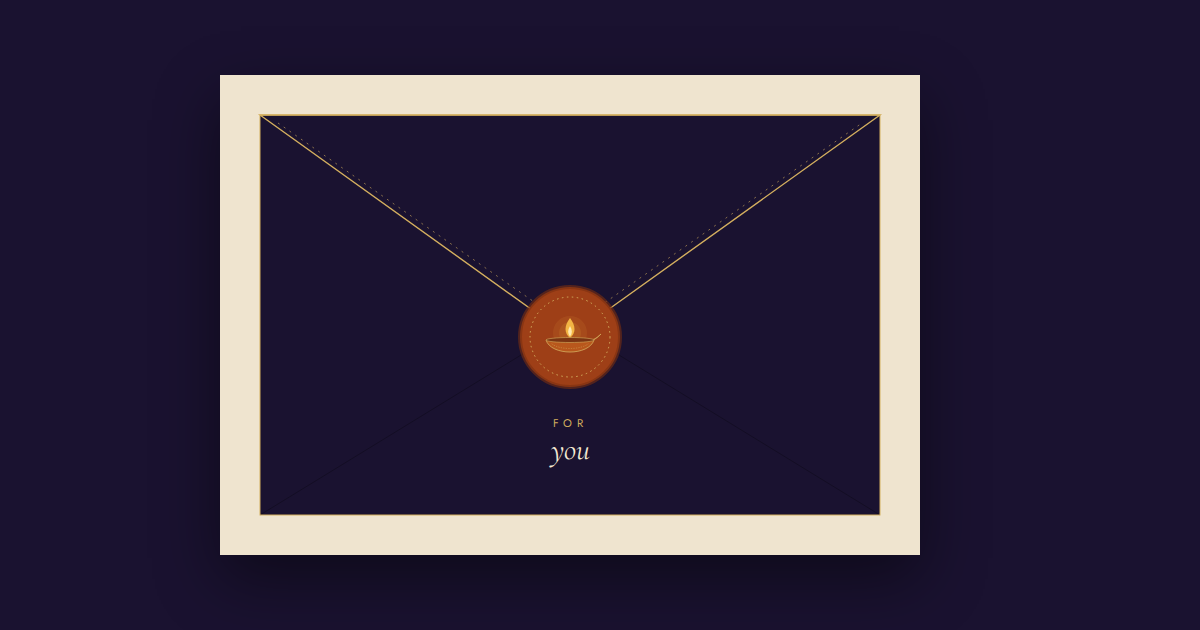
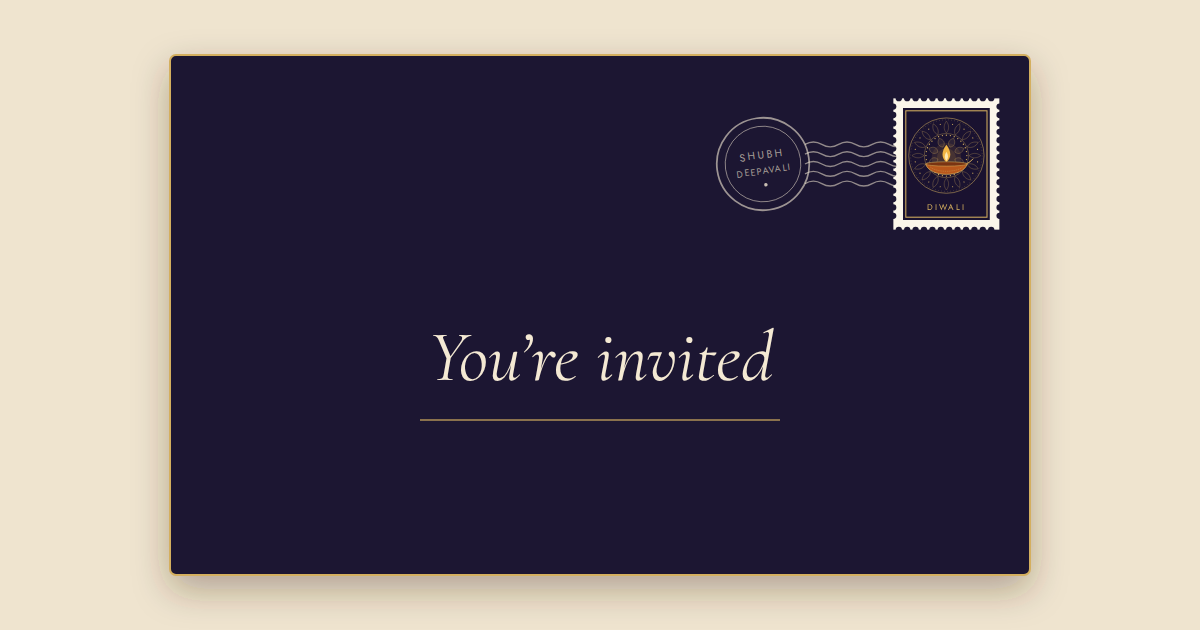
Email and link preview show the addressed front of the envelope
- Email: context (title, message) on light paper, then the front of the
  envelope with a stamp, postmark and the guest's name written on it,
  then the button, then a dark details band with Add to calendar and
  View map. Built as HTML so each guest's real name is on the envelope.
- Link preview (WhatsApp/iMessage): front of the envelope with stamp,
  postmark and "You're invited".
- Stamps rendered per design and color pair; old envelope-back images
  removed.

Claude-Session: https://claude.ai/code/session_01EBorhT272iFKEJQZLz5Mn7

diff --git a/backend/core.js b/backend/core.js
@@ -33,22 +33,22 @@ var InviteCore = (function () {
         night: {
           grounds: [sw('Midnight', '#1A1230'), sw('Deep maroon', '#3A0F1E'), sw('Emerald', '#0E2A26'), sw('Indigo', '#14213D')],
           accents: [sw('Classic gold', '#D4AF5F'), sw('Pale gold', '#E6C77E'), sw('Antique gold', '#C9A24A')],
-          text: '#F4E9D3', muted: '#CDBFA3'
+          text: '#F4E9D3', muted: '#CDBFA3', envInk: '#F4E9D3'
         },
         arch: {
           grounds: [sw('Ivory', '#FFF6E3'), sw('Blush', '#FCEBE2'), sw('Pistachio', '#EFF2DF')],
           accents: [sw('Saffron', '#F0B04F'), sw('Marigold', '#EC9A3A'), sw('Rose', '#E8A48C')],
-          text: '#5A1A0E', muted: '#8A4A2A', label: '#B5651D', button: '#6B1F12', buttonText: '#FFF6E3'
+          text: '#5A1A0E', muted: '#8A4A2A', label: '#B5651D', button: '#6B1F12', buttonText: '#FFF6E3', env: '#6B1F12', envInk: '#FFF6E3'
         },
         carnival: {
           grounds: [sw('Plum to rust', '#3A0F1E', '#7A3416'), sw('Wine', '#2A0A1C', '#64202E'), sw('Night to plum', '#151033', '#4E1F46')],
           accents: [sw('Marigold gold', '#F2C879'), sw('Bright gold', '#F5B942'), sw('Pale gold', '#F6DFAE')],
-          text: '#FFF3E2', muted: '#F0D9BE'
+          text: '#FFF3E2', muted: '#F0D9BE', envInk: '#FFF3E2'
         },
         plum: {
           grounds: [sw('Plum', '#3A1532'), sw('Aubergine', '#2A0E26'), sw('Midnight', '#1A1230')],
           accents: [sw('Champagne', '#F1D39A'), sw('Classic gold', '#D4AF5F'), sw('Rose gold', '#E8B59A')],
-          text: '#F6E9DC', muted: '#D9C3B4'
+          text: '#F6E9DC', muted: '#D9C3B4', envInk: '#F6E9DC'
         }
       },
       surround: '#EFE4CF'
@@ -279,13 +279,28 @@ var InviteCore = (function () {
       return String(tpl || '').replace(/\{(\w+)\}/g, function (m, k) { return vars.hasOwnProperty(k) ? vars[k] : m; });
     }
 
-    function envelopeImage(d) {
+    function stampImage(d) {
       var pal = paletteOf(d.theme, d.template);
       var gi = Math.max(0, values(pal.p.grounds).indexOf(d.colors.ground));
       var ai = Math.max(0, values(pal.p.accents).indexOf(d.colors.accent));
-      return base() + '/themes/' + d.theme + '/email/envelope-' + pal.key + '-' + gi + '-' + ai + '.png';
+      return base() + '/themes/' + d.theme + '/email/stamp-' + pal.key + '-' + gi + '-' + ai + '.png';
     }
 
+    function calendarUrl(d) {
+      var stamp = function (date, time) { return date.replace(/-/g, '') + (time ? 'T' + time.replace(':', '') + '00' : ''); };
+      var end;
+      if (d.endTime) end = stamp(d.endTime <= d.startTime ? addDays(d.date, 1) : d.date, d.endTime);
+      else if (d.startTime) {
+        var h = parseInt(d.startTime, 10) + 3, day = d.date;
+        if (h >= 24) { h -= 24; day = addDays(d.date, 1); }
+        end = stamp(day, (h < 10 ? '0' : '') + h + d.startTime.slice(2));
+      } else end = stamp(addDays(d.date, 1));
+      return 'https://calendar.google.com/calendar/render?action=TEMPLATE&text=' + encodeURIComponent(d.text.title || '') +
+        '&dates=' + stamp(d.date, d.startTime) + '/' + end + '&location=' + encodeURIComponent([d.venue, d.address].filter(Boolean).join(', '));
+    }
+
+    // Email layout (like a paper invitation in the mail): context on light paper, then the
+    // addressed front of the envelope, the button, and the event details on a dark band.
     function buildEmail(kind, ev, d, g, overrides) {
       overrides = overrides || {};
       var th = themeOf(d), e = fmt.esc;
@@ -293,34 +308,44 @@ var InviteCore = (function () {
       var message = fill(overrides.message || d.email[kind + 'Message'] || EMAIL_DEFAULTS[kind + 'Message'], ev, d, g);
       var link = guestLink(ev, d, g);
       var P = paletteOf(d.theme, d.template).p;
-      var G = d.colors.ground, A = d.colors.accent, T = P.text;
-      var L = P.label || A, B = P.button || A, BT = P.buttonText || G;
+      var ENV = P.env || d.colors.ground, INK = P.envInk || P.text, A = d.colors.accent;
+      var PAPER = '#FBF6EA', DARK = '#2A2433', SOFT = '#6B5E52';
+      var D = th.display, S = th.body;
+      var hideAddress = d.settings.addressVisibility === 'accepted' && !(g && g.status === 'yes');
       var paras = message.split(/\n{2,}/).map(function (p) {
         return '<p style="margin:0 0 16px">' + e(p).replace(/\n/g, '<br>') + '</p>';
       }).join('');
+      var label = function (t) { return '<div style="font-family:' + S + ';font-size:12px;letter-spacing:4px;text-transform:uppercase;color:' + A + ';margin:0 0 6px">' + t + '</div>'; };
+      var linkStyle = 'color:' + INK + ';font-family:' + S + ';font-size:12px;letter-spacing:3px;text-transform:uppercase;text-decoration:underline;text-underline-offset:4px';
+      var when = [fmt.date(d.date), fmt.timeRange(d.startTime, d.endTime)].filter(Boolean);
       var details = '';
-      if (kind === 'daybefore') {
-        var rows = [fmt.date(d.date), fmt.timeRange(d.startTime, d.endTime), [d.venue, d.address].filter(Boolean).join(', ')]
-          .filter(Boolean).map(function (r) { return e(r); });
-        if (d.address) rows.push('<a href="' + e(fmt.mapUrl(d.address)) + '" style="color:' + L + '">Open in Maps</a>');
-        details = '<tr><td style="padding:0 40px 24px;font-family:' + th.body + ';font-size:15px;line-height:1.7;color:' + T +
-          ';text-align:center;border-top:1px solid ' + A + ';border-bottom:1px solid ' + A + '"><div style="padding:16px 0">' +
-          rows.join('<br>') + '</div></td></tr>';
+      if (when.length) {
+        details += label('When') + '<div style="font-family:' + S + ';font-size:16px;line-height:1.6;color:' + INK + '">' + when.map(e).join('<br>') + '</div>' +
+          '<div style="margin:8px 0 22px"><a href="' + e(calendarUrl(d)) + '" style="' + linkStyle + '">Add to calendar</a></div>';
+      }
+      var place = [d.venue, hideAddress ? '' : d.address].filter(Boolean);
+      if (place.length) {
+        details += label('Where') + '<div style="font-family:' + S + ';font-size:16px;line-height:1.6;color:' + INK + '">' + place.map(e).join('<br>') + '</div>' +
+          (d.address && !hideAddress ? '<div style="margin:8px 0 4px"><a href="' + e(fmt.mapUrl(d.address)) + '" style="' + linkStyle + '">View map</a></div>' :
+            hideAddress && d.address ? '<div style="font-family:' + S + ';font-size:13px;color:' + INK + ';opacity:.8;margin-top:6px">The address is shared once you accept.</div>' : '');
       }
       var html =
         '<div style="background:' + th.surround + ';padding:24px 12px">' +
-        '<table role="presentation" cellpadding="0" cellspacing="0" width="100%" style="max-width:560px;margin:0 auto;background:' + G +
-        ';border:1px solid ' + A + '">' +
-        '<tr><td style="padding:0"><a href="' + e(link) + '"><img src="' + e(envelopeImage(d)) + '" width="560" alt="A sealed invitation" ' +
-        'style="display:block;width:100%;max-width:560px;height:auto;border:0"></a></td></tr>' +
-        '<tr><td style="padding:8px 24px 0;text-align:center;font-family:' + th.body + ';font-size:12px;letter-spacing:4px;text-transform:uppercase;color:' + L + '">For</td></tr>' +
-        '<tr><td style="padding:4px 24px 24px;text-align:center;font-family:' + th.display + ';font-style:italic;font-size:30px;color:' + T + '">' + e(g.name) + '</td></tr>' +
-        '<tr><td style="padding:0 40px 8px;font-family:' + th.display + ';font-size:18px;line-height:1.6;color:' + T + '">' + paras + '</td></tr>' +
-        details +
-        '<tr><td align="center" style="padding:8px 24px 40px"><a href="' + e(link) + '" style="display:inline-block;background:' + B + ';color:' + BT +
-        ';padding:15px 28px;border-radius:6px;text-decoration:none;font-family:' + th.body + ';font-size:13px;font-weight:bold;letter-spacing:3px;text-transform:uppercase">Open your invitation</a></td></tr>' +
+        '<table role="presentation" cellpadding="0" cellspacing="0" width="100%" style="max-width:560px;margin:0 auto;background:' + PAPER + ';border-collapse:collapse">' +
+        '<tr><td style="padding:36px 32px 6px;text-align:center;font-family:' + D + ';font-size:32px;line-height:1.2;color:' + DARK + '">' + e(d.text.title || '') + '</td></tr>' +
+        '<tr><td align="center" style="padding:6px 0 18px"><div style="width:64px;height:1px;background:' + A + ';line-height:1px;font-size:1px">&nbsp;</div></td></tr>' +
+        '<tr><td style="padding:0 40px 8px;font-family:' + D + ';font-size:18px;line-height:1.6;color:' + DARK + '">' + paras + '</td></tr>' +
+        '<tr><td style="padding:4px 32px 24px">' +
+        '<a href="' + e(link) + '" style="text-decoration:none;display:block">' +
+        '<table role="presentation" cellpadding="0" cellspacing="0" width="100%" style="background:' + ENV + ';border:1px solid ' + A + ';border-radius:6px;border-collapse:separate">' +
+        '<tr><td align="right" style="padding:14px 14px 0"><img src="' + e(stampImage(d)) + '" width="200" height="109" alt="" style="display:block;border:0;width:200px;height:auto"></td></tr>' +
+        '<tr><td align="center" style="padding:18px 24px 66px;font-family:' + D + ';font-style:italic;font-size:34px;line-height:1.2;color:' + INK + '">' + e(g.name) + '</td></tr>' +
+        '</table></a></td></tr>' +
+        '<tr><td align="center" style="padding:0 24px 34px"><a href="' + e(link) + '" style="display:inline-block;background:' + ENV + ';color:' + INK +
+        ';padding:15px 30px;border-radius:6px;text-decoration:none;font-family:' + S + ';font-size:13px;font-weight:bold;letter-spacing:3px;text-transform:uppercase">Open your invitation</a></td></tr>' +
+        (details ? '<tr><td style="background:' + ENV + ';padding:30px 32px 32px;text-align:center">' + details + '</td></tr>' : '') +
         '</table>' +
-        '<p style="text-align:center;font-family:' + th.body + ';font-size:12px;color:#7a6f63;margin:16px 0 0">' + e(d.text.title || '') + (d.text.hostNames ? ' · ' + e(d.text.hostNames) : '') + '</p>' +
+        '<p style="text-align:center;font-family:' + S + ';font-size:12px;color:' + SOFT + ';margin:16px 0 0">' + e(d.text.title || '') + (d.text.hostNames ? ' · ' + e(d.text.hostNames) : '') + '</p>' +
         '</div>';
       var text = message + '\n\nOpen your invitation: ' + link;
       return { subject: subject, html: html, text: text };

diff --git a/tools/render-images.js b/tools/render-images.js
@@ -1,7 +1,7 @@
 /*
  * Renders the images a theme needs outside the browser app:
- *   themes/<id>/email/envelope-<palette>-<ground>-<accent>.png  (email header, one per color pair)
- *   themes/<id>/og.png                                 (link preview in WhatsApp / iMessage)
+ *   themes/<id>/email/stamp-<palette>-<ground>-<accent>.png  (stamp + postmark on the email's envelope)
+ *   themes/<id>/og.png                                        (link preview in WhatsApp / iMessage)
  *
  * Usage: serve the repo root (python3 -m http.server 8765), then
  *   node tools/render-images.js [theme] [baseUrl]
@@ -20,49 +20,45 @@ const meta = Core.THEMES[theme];
 (async () => {
   const args = process.env.HTTPS_PROXY ? ['--proxy-server=' + process.env.HTTPS_PROXY, '--proxy-bypass-list=localhost;127.0.0.1'] : [];
   const browser = await chromium.launch({ args });
-  async function fontRoute(c) {
-    if (!process.env.FONTS_VIA_CURL) return;
-    await c.route(/fonts\.(googleapis|gstatic)\.com/, (route) => {
-      const url = route.request().url();
-      const body = require('child_process').execFileSync('curl', ['-sSL', '-A', 'Mozilla/5.0 Chrome/140', url], { maxBuffer: 1 << 26 });
-      route.fulfill({ status: 200, body, headers: { 'content-type': url.includes('css2') ? 'text/css' : 'font/woff2', 'access-control-allow-origin': '*' } });
-    });
+  async function context(scale) {
+    const ctx = await browser.newContext({ deviceScaleFactor: scale });
+    if (process.env.FONTS_VIA_CURL) {
+      await ctx.route(/fonts\.(googleapis|gstatic)\.com/, (route) => {
+        const url = route.request().url();
+        const body = require('child_process').execFileSync('curl', ['-sSL', '-A', 'Mozilla/5.0 Chrome/140', url], { maxBuffer: 1 << 26 });
+        route.fulfill({ status: 200, body, headers: { 'content-type': url.includes('css2') ? 'text/css' : 'font/woff2', 'access-control-allow-origin': '*' } });
+      });
+    }
+    return ctx.newPage();
   }
-  const ctx = await browser.newContext({ deviceScaleFactor: 2 });
-  await fontRoute(ctx);
-  const page = await ctx.newPage();
-  const dir = path.join(__dirname, '..', 'themes', theme);
-  fs.mkdirSync(path.join(dir, 'email'), { recursive: true });
-
-  async function shot(mode, qs, file, size, clip) {
+  async function shot(page, qs, file, size, omitBackground) {
     await page.setViewportSize(size);
-    await page.goto(base + 'tools/render.html?mode=' + mode + '&theme=' + theme + '&' + qs);
+    await page.goto(base + 'tools/render.html?theme=' + theme + '&' + qs);
     await page.waitForSelector('body[data-ready]');
-    await page.screenshot({ path: file, type: 'png', clip });
+    await page.screenshot({ path: file, type: 'png', omitBackground });
     console.log('wrote', path.relative(process.cwd(), file));
   }
+  const dir = path.join(__dirname, '..', 'themes', theme);
+  const emailDir = path.join(dir, 'email');
+  fs.mkdirSync(emailDir, { recursive: true });
+  fs.readdirSync(emailDir).filter((f) => f.endsWith('.png')).forEach((f) => fs.unlinkSync(path.join(emailDir, f)));
 
-  // One set of envelope images per palette (several card designs can share a palette).
+  // One stamp per palette and color pair; drawn at 440x240 and shown at 220x120 in emails.
+  const page = await context(1);
   for (const key of Object.keys(meta.palettes)) {
     const template = Object.keys(meta.templates).find((t) => meta.templates[t] === key);
     const pal = meta.palettes[key];
     for (let g = 0; g < pal.grounds.length; g++) {
       for (let a = 0; a < pal.accents.length; a++) {
-        const qs = 'template=' + template + '&ground=' + encodeURIComponent(pal.grounds[g].value) + '&accent=' + encodeURIComponent(pal.accents[a].value);
-        await shot('email', qs, path.join(dir, 'email', 'envelope-' + key + '-' + g + '-' + a + '.png'), { width: 700, height: 480 }, { x: 40, y: 40, width: 620, height: 400 });
+        const qs = 'mode=stamp&template=' + template + '&ground=' + encodeURIComponent(pal.grounds[g].value) + '&accent=' + encodeURIComponent(pal.accents[a].value);
+        await shot(page, qs, path.join(emailDir, 'stamp-' + key + '-' + g + '-' + a + '.png'), { width: 440, height: 240 }, true);
       }
     }
   }
-  await ctx.close();
-  // Link previews are shown small; render at 1x so the file stays light.
-  const og = await browser.newContext({ deviceScaleFactor: 1 });
-  await fontRoute(og);
-  const p2 = await og.newPage();
-  await p2.setViewportSize({ width: 1200, height: 630 });
-  const first = meta.palettes[meta.templates[Object.keys(meta.templates)[0]]];
-  await p2.goto(base + 'tools/render.html?mode=og&theme=' + theme + '&ground=' + encodeURIComponent(first.grounds[0].value) + '&accent=' + encodeURIComponent(first.accents[0].value));
-  await p2.waitForSelector('body[data-ready]');
-  await p2.screenshot({ path: path.join(dir, 'og.png'), type: 'png' });
-  console.log('wrote', path.join('themes', theme, 'og.png'));
+
+  const first = Object.keys(meta.templates)[0];
+  const fp = meta.palettes[meta.templates[first]];
+  await shot(page, 'mode=og2&template=' + first + '&ground=' + encodeURIComponent(fp.grounds[0].value) + '&accent=' + encodeURIComponent(fp.accents[0].value),
+    path.join(dir, 'og.png'), { width: 1200, height: 630 }, false);
   await browser.close();
 })().catch((e) => { console.error(e); process.exit(1); });

diff --git a/themes/diwali/theme.js b/themes/diwali/theme.js
@@ -465,6 +465,53 @@
 
   function classes(ev) { return 't-diwali tpl-' + tplId(ev); }
 
+  /* ---------- envelope front: stamp + postmark (email) and link preview (rendered by tools/render-images.js) ---------- */
+
+  function pal(ev) { return InviteCore.paletteOf('diwali', tplId(ev)).p; }
+  function envColor(ev) { return pal(ev).env || 'var(--ground)'; }
+
+  // Postmark, cancellation lines and a perforated stamp with a diya. 440 x 240, transparent.
+  function stampArt(ev) {
+    var m = uid('pf'), ink = pal(ev).envInk;
+    var holes = '';
+    for (var x = 284; x <= 420; x += 12) holes += '<circle cx="' + x + '" cy="26" r="4.5" fill="#000"/><circle cx="' + x + '" cy="214" r="4.5" fill="#000"/>';
+    for (var y = 38; y <= 202; y += 12) holes += '<circle cx="276" cy="' + y + '" r="4.5" fill="#000"/><circle cx="428" cy="' + y + '" r="4.5" fill="#000"/>';
+    var waves = '';
+    for (var i = 0; i < 5; i++) {
+      var yy = 92 + i * 14;
+      waves += '<path d="M150 ' + yy + ' q 12 -7 24 0 t 24 0 t 24 0 t 24 0 t 24 0 t 24 0 t 24 0 t 24 0" fill="none" stroke="' + ink + '" stroke-width="2" stroke-opacity="0.55"/>';
+    }
+    return '<svg xmlns="http://www.w3.org/2000/svg" viewBox="0 0 440 240" width="440" height="240">' +
+      '<defs><mask id="' + m + '"><rect x="276" y="26" width="152" height="188" fill="#fff"/>' + holes + '</mask></defs>' +
+      '<g transform="rotate(-8 90 120)">' +
+      c(90, 120, 66, 'none', ' stroke="' + ink + '" stroke-width="2.5" stroke-opacity="0.6"') +
+      c(90, 120, 54, 'none', ' stroke="' + ink + '" stroke-width="1.2" stroke-opacity="0.6"') +
+      '<text x="90" y="112" text-anchor="middle" font-family="Jost, Helvetica, Arial, sans-serif" font-size="15" letter-spacing="3" fill="' + ink + '" fill-opacity="0.65">SHUBH</text>' +
+      '<text x="90" y="134" text-anchor="middle" font-family="Jost, Helvetica, Arial, sans-serif" font-size="13" letter-spacing="2" fill="' + ink + '" fill-opacity="0.65">DEEPAVALI</text>' +
+      c(90, 150, 2.5, ink, ' fill-opacity="0.8"') + '</g>' +
+      waves +
+      '<g mask="url(#' + m + ')" filter="drop-shadow(0 2px 2px rgba(0,0,0,.25))"><rect x="276" y="26" width="152" height="188" fill="#FBF6EA"/>' +
+      '<rect x="290" y="40" width="124" height="160" style="fill:var(--ground)"/>' +
+      '<rect x="294" y="44" width="116" height="152" fill="none" stroke="currentColor" stroke-width="1.5"/>' +
+      g('translate(352 108) scale(0.62)', mandala(0, 0, 0.62)) + diya(352, 110, 0.62) +
+      '<text x="352" y="186" text-anchor="middle" font-family="Jost, Helvetica, Arial, sans-serif" font-size="12" letter-spacing="3" fill="currentColor">DIWALI</text></g>' +
+      '</svg>';
+  }
+
+  // Front of the envelope for the link preview in WhatsApp / iMessage. 1200 x 630.
+  function previewArt(ev) {
+    var sh = uid('ps'), P = pal(ev);
+    return '<svg xmlns="http://www.w3.org/2000/svg" viewBox="0 0 1200 630" width="1200" height="630">' +
+      '<defs><filter id="' + sh + '" x="-10%" y="-10%" width="120%" height="130%"><feDropShadow dx="0" dy="14" stdDeviation="18" flood-color="#3a2a1a" flood-opacity="0.35"/></filter></defs>' +
+      '<rect width="1200" height="630" fill="#EFE4CF"/>' +
+      '<g filter="url(#' + sh + ')"><rect x="170" y="55" width="860" height="520" rx="6" style="fill:' + envColor(ev) + '"/></g>' +
+      '<rect x="170" y="55" width="860" height="520" rx="6" fill="none" stroke="currentColor" stroke-width="2"/>' +
+      '<svg x="700" y="80" width="308" height="168" viewBox="0 0 440 240">' + stampArt(ev).replace(/^<svg[^>]*>/, '').replace(/<\/svg>$/, '') + '</svg>' +
+      '<text x="600" y="380" text-anchor="middle" font-family="\'Cormorant Garamond\', Georgia, serif" font-style="italic" font-size="72" fill="' + P.envInk + '">You’re invited</text>' +
+      '<line x1="420" y1="420" x2="780" y2="420" stroke="currentColor" stroke-width="1.5" stroke-opacity="0.8"/>' +
+      '</svg>';
+  }
+
   var theme = {
     id: 'diwali',
     name: 'Diwali',
@@ -493,6 +540,8 @@
     },
     templates: Object.keys(TEMPLATES).map(function (k) { return { id: k, name: TEMPLATES[k].name, note: TEMPLATES[k].note }; }),
     envelope: envelope,
+    stampArt: stampArt,
+    previewArt: previewArt,
     card: card,
     hero: hero
   };

diff --git a/tests/core.test.js b/tests/core.test.js
@@ -154,7 +154,8 @@ test('sending: email vs text-only, once per day, invite tracking', () => {
   assert.deepStrictEqual([r.sent, r.textOnly.length], [1, 1]);
   const mail = t.sent[0];
   assert.strictEqual(mail.subject, 'You’re invited: A Diwali Evening'.replace('’', "'"));
-  assert.match(mail.html, /envelope-night-1-1\.png/, 'email image follows the chosen colors');
+  assert.match(mail.html, /stamp-night-1-1\.png/, 'stamp follows the chosen colors');
+  assert.match(mail.html, /Priya Sharma<\/td>/, 'the guest name is written on the envelope');
   assert.match(mail.html, /Dear Priya,/);
   assert.match(mail.html, /kindly reply by Saturday, October 31/);
   assert.match(mail.html, /diwali\.html\?e=/);
@@ -185,7 +186,7 @@ test('daily job: auto reminder and day-before email', () => {
   t2.core.daily();
   assert.strictEqual(t2.sent.length, 1);
   assert.match(t2.sent[0].subject, /See you tomorrow/);
-  assert.match(t2.sent[0].html, /Open in Maps/);
+  assert.match(t2.sent[0].html, /View map/);
 });
 
 test('family hosts see only their events; owner manages hosts', () => {
@@ -232,8 +233,8 @@ test('each card design keeps to its own swatches; emails follow the design', () 
   const g = t.call('host.saveGuest', { k: 'OWNER', e: id, guest: { name: 'P', email: 'p@x.co' } }).guest;
   t.call('host.send', { k: 'OWNER', e: id, kind: 'invite', ids: [g.id] });
   const html = t.sent[t.sent.length - 1].html;
-  assert.match(html, /envelope-arch-1-2\.png/);
-  assert.match(html, /background:#6B1F12;color:#FFF6E3/, 'light design uses a dark button');
+  assert.match(html, /stamp-arch-1-2\.png/);
+  assert.match(html, /background:#6B1F12;color:#FFF6E3/, 'light design uses a dark envelope and button');
   data.template = 'nope';
   t.call('host.saveEvent', { k: 'OWNER', event: { id, data } });
   assert.strictEqual(t.call('host.event', { k: 'OWNER', e: id }).event.data.template, 'classic', 'unknown design falls back');

diff --git a/tools/render.html b/tools/render.html
@@ -6,9 +6,9 @@
 <!-- Used by tools/render-images.js to draw email and link-preview images from a theme. -->
 <style>
   html, body { margin: 0; }
-  body.email { width: 700px; height: 480px; }
-  body.email .stage { width: 700px; height: 480px; }
-  body.email .envelope .to { display: none; }
+  body.stamp, body.stamp .stage { width: 440px; height: 240px; background: transparent; }
+  body.og2, body.og2 .stage { width: 1200px; height: 630px; }
+  body.stamp svg, body.og2 svg { display: block; color: var(--gold); }
   body.og { width: 1200px; height: 630px; display: flex; align-items: center; justify-content: center; }
   body.og .stage { width: 760px; }
   body.og .envelope { box-shadow: 0 24px 60px rgba(0, 0, 0, .45); }
@@ -24,7 +24,9 @@
   Themes.load(ev.theme).then(function (theme) {
     document.body.className = q.get('mode') + ' ' + Themes.classes(ev);
     document.body.setAttribute('style', Themes.vars(ev));
-    document.getElementById('stage').innerHTML = theme.envelope(ev, 'you');
+    var mode = q.get('mode');
+    document.getElementById('stage').innerHTML = mode === 'stamp' ? theme.stampArt(ev) :
+      mode === 'og2' ? theme.previewArt(ev) : theme.envelope(ev, 'you');
     return document.fonts.ready;
   }).then(function () { document.body.setAttribute('data-ready', '1'); });
 </script>

diff --git a/README.md b/README.md
@@ -36,7 +36,7 @@ GitHub Pages (this repo, static)          Google Apps Script (your account)
 | `backend/Code.gs` | Apps Script entry points, Sheet storage, `setup()`, daily job. |
 | `themes/registry.js` | Theme loader. |
 | `themes/diwali/` | Diwali theme: SVG motifs, 6 card designs (Lanterns & Mandala, Saffron Arch, Marigold Carnival, Plum Lights, Rangoli Moon, Marigold Toran), styles, email and preview images. |
-| `tools/render-images.js` | Regenerates a theme's email and link-preview images. |
+| `tools/render-images.js` | Regenerates a theme's email stamps and link-preview image. |
 | `tests/` | Unit tests for the core and for Code.gs against a fake Sheet. |
 
 ## Adding a theme
@@ -45,7 +45,7 @@ GitHub Pages (this repo, static)          Google Apps Script (your account)
 2. Create `themes/<id>/theme.js` that calls `Themes.register({...})` with fonts, default wording, at least three card designs, and `envelope()`, `card()` and `hero()` renderers. Copy the Diwali theme as a starting point.
 3. Add `themes/<id>/theme.css`: style the shared classes (`.details`, `.rsvp`, `.thanks` and so on) under `.t-<id>`, and set each design's page colors under `.t-<id>.tpl-<design>`. Then add the theme to `list` in `themes/registry.js`.
 4. Copy `diwali.html` to `<id>.html` and update its preview tags.
-5. Serve the repo locally and run `node tools/render-images.js <id>` for the email and preview images.
+5. Serve the repo locally and run `node tools/render-images.js <id>` for the email stamps and preview image (the theme provides `stampArt()` and `previewArt()`).
 
 ## Developing
 
